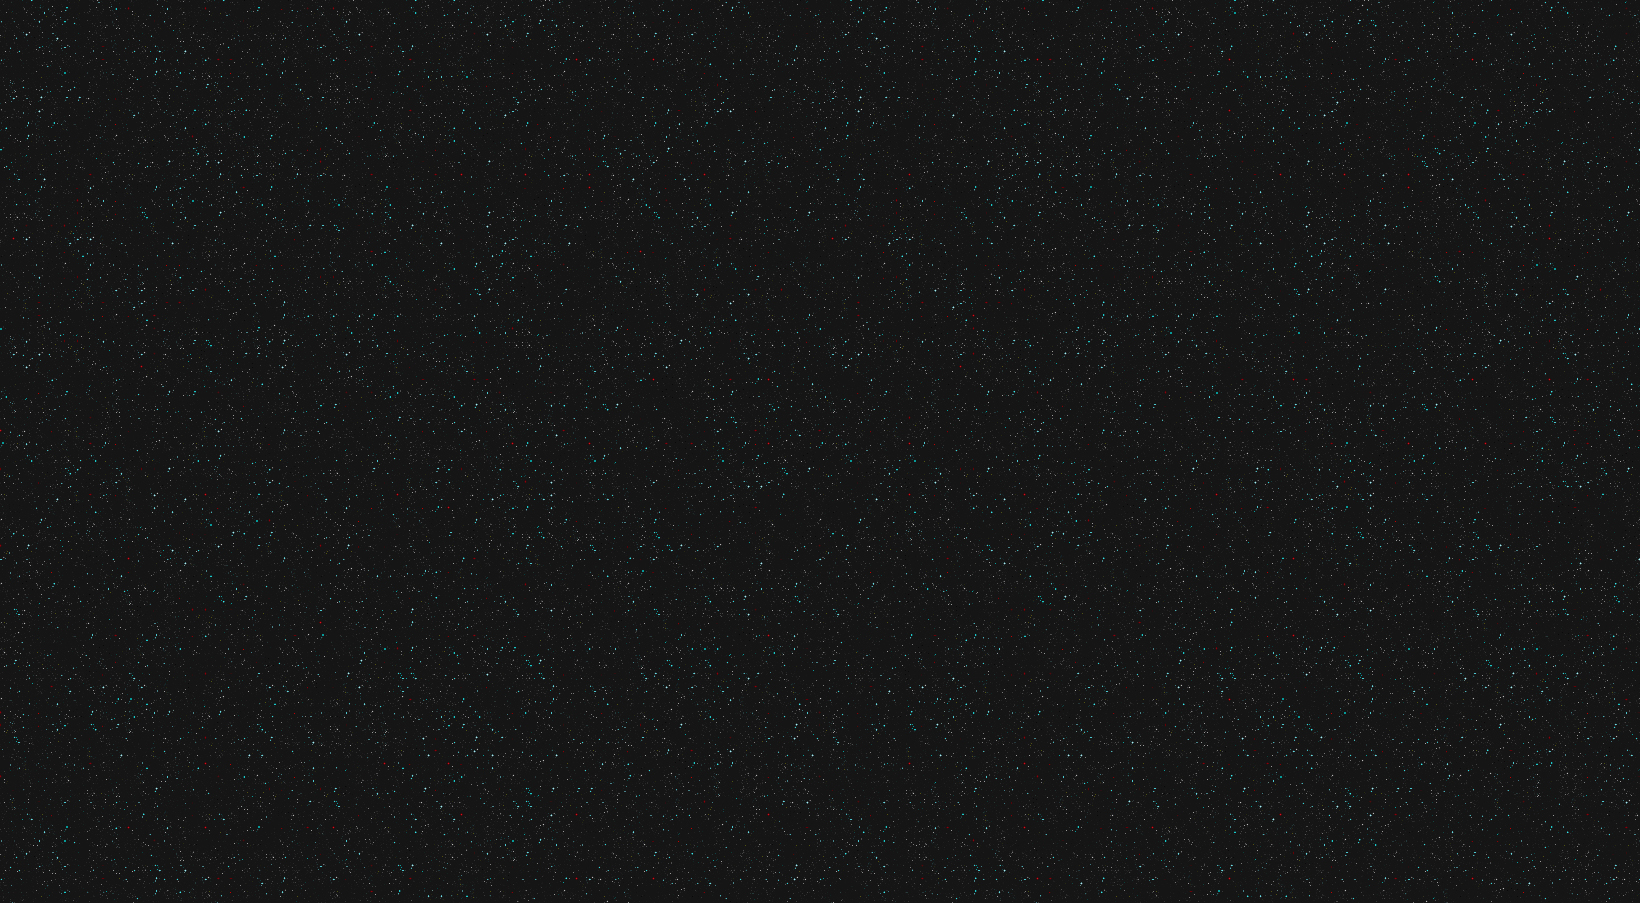
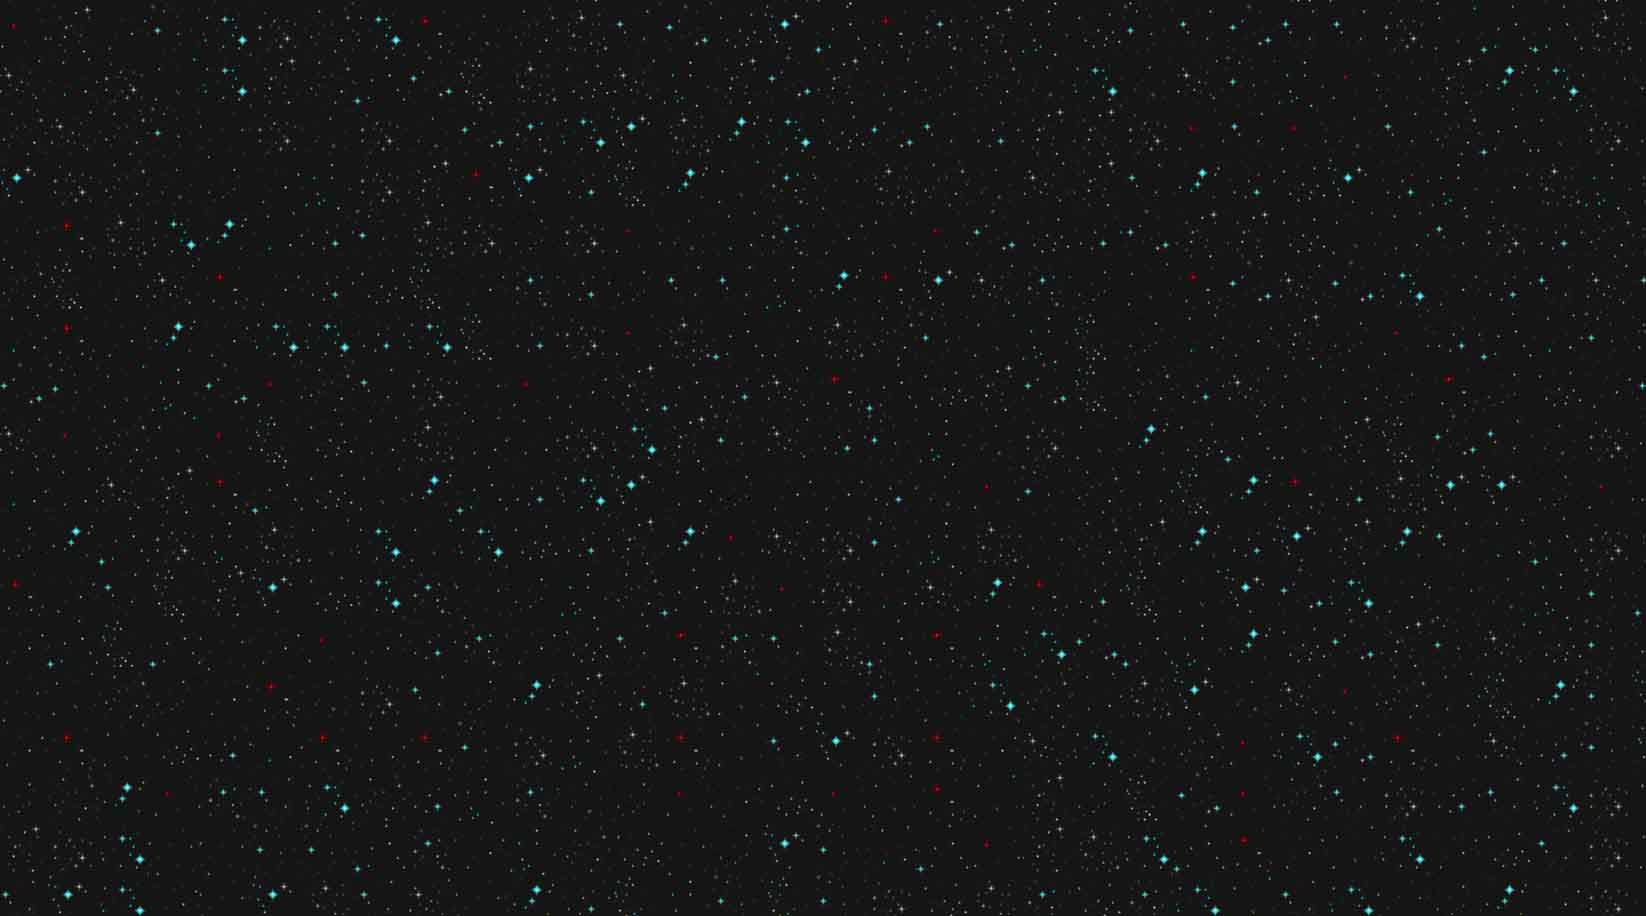
Replace space bg for higher zoom version Add box roid bg image fix a couple stray indents

diff --git a/src/index.js b/src/index.js
@@ -3,7 +3,7 @@ var host = "https://vgutils.com.ar"
 var DMIS_ENDPOINT = host + "/dmis/";
 var SEARCHER_ENDPOINT = host + "/icon/search/";
 var SEARCHER_BY_DMI_ENDPOINT = host + "/dmi/search/";
-const numBgImages = 3;
+const numBgImages = 4;
 const iconDimensionZoomThreshold = 300; //the cutoff where we dont give an icon the zoom function because its already big. (width + height)
 
 let tableDiv = document.getElementById('table');
@@ -106,7 +106,7 @@ function addToTable(matches) {
 
 		img.src = "assets/" + element["dmi"];
 
-		img.onload = function(){
+		img.onload = function () {
 			let imgW, imgH;
 			imgW = img.width;
 			imgH = img.height;
@@ -114,7 +114,7 @@ function addToTable(matches) {
 			/*to prevent zoom from engulfing the entire table
 			or window because of trying to zoom a large icon
 			we only add it to images with a w+h smaller than 
-		we only add it to images with a w+h smaller than 
+			we only add it to images with a w+h smaller than 
 			we only add it to images with a w+h smaller than 
 			the threshold*/
 			if (imgW + imgH < iconDimensionZoomThreshold) {

diff --git a/src/style.css b/src/style.css
@@ -10,8 +10,8 @@ body {
     left: 0;
     margin: 0;
 
-    background: no-repeat center center fixed; 
-	  transform: scale(1.5);
+    background: no-repeat center center fixed;
+	transform: scale(1.5);
     background-size: cover;
     z-index: -20;
     filter: brightness(60%) blur(8px) ;
